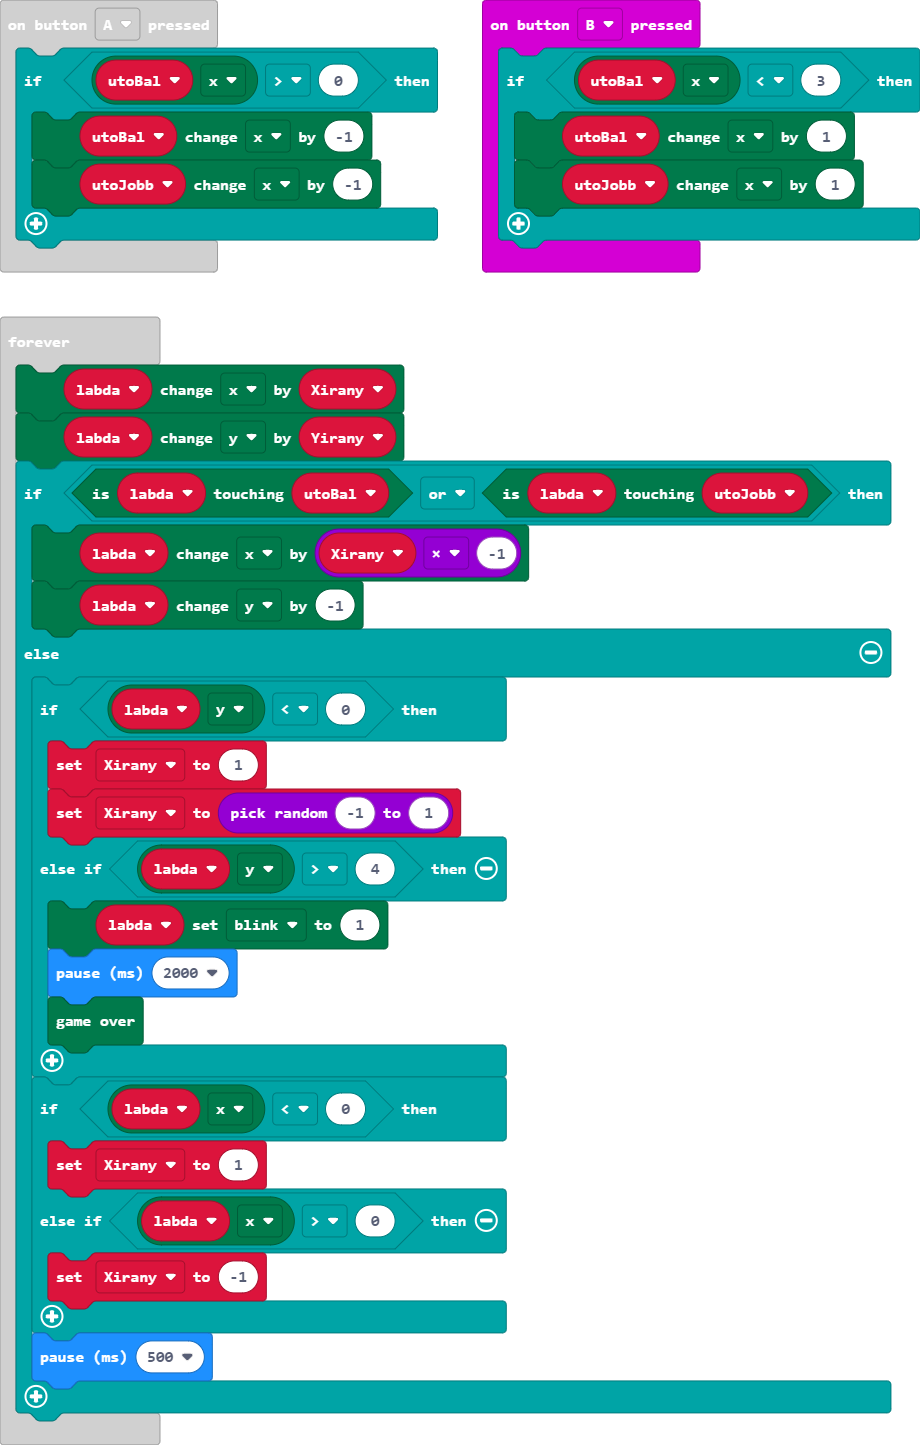
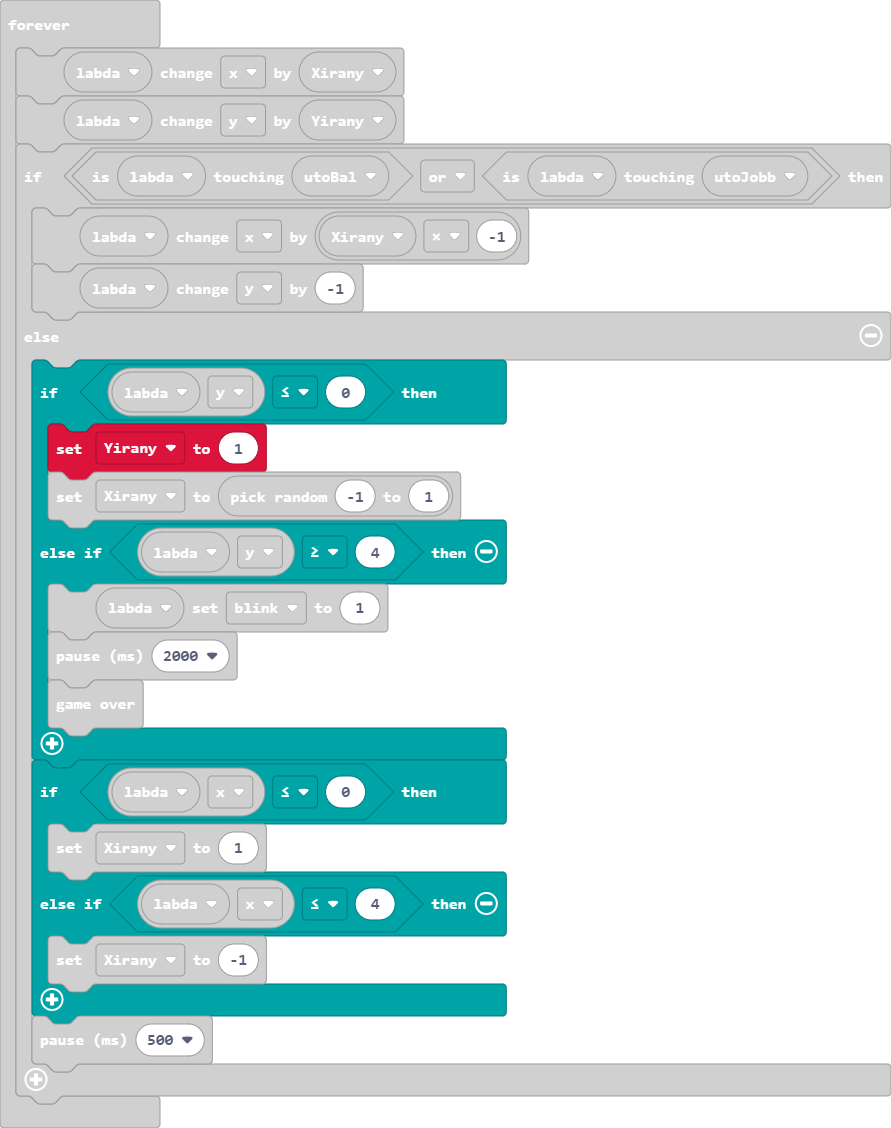
Update main.blocks, main.ts

diff --git a/main.ts b/main.ts
@@ -25,17 +25,17 @@ basic.forever(function () {
         labda.change(LedSpriteProperty.X, Xirany * -1)
         labda.change(LedSpriteProperty.Y, -1)
     } else {
-        if (labda.get(LedSpriteProperty.Y) < 0) {
-            Xirany = 1
+        if (labda.get(LedSpriteProperty.Y) <= 0) {
+            Yirany = 1
             Xirany = randint(-1, 1)
-        } else if (labda.get(LedSpriteProperty.Y) > 4) {
+        } else if (labda.get(LedSpriteProperty.Y) >= 4) {
             labda.set(LedSpriteProperty.Blink, 1)
             basic.pause(2000)
             game.gameOver()
         }
-        if (labda.get(LedSpriteProperty.X) < 0) {
+        if (labda.get(LedSpriteProperty.X) <= 0) {
             Xirany = 1
-        } else if (labda.get(LedSpriteProperty.X) > 0) {
+        } else if (labda.get(LedSpriteProperty.X) <= 4) {
             Xirany = -1
         }
         basic.pause(500)
